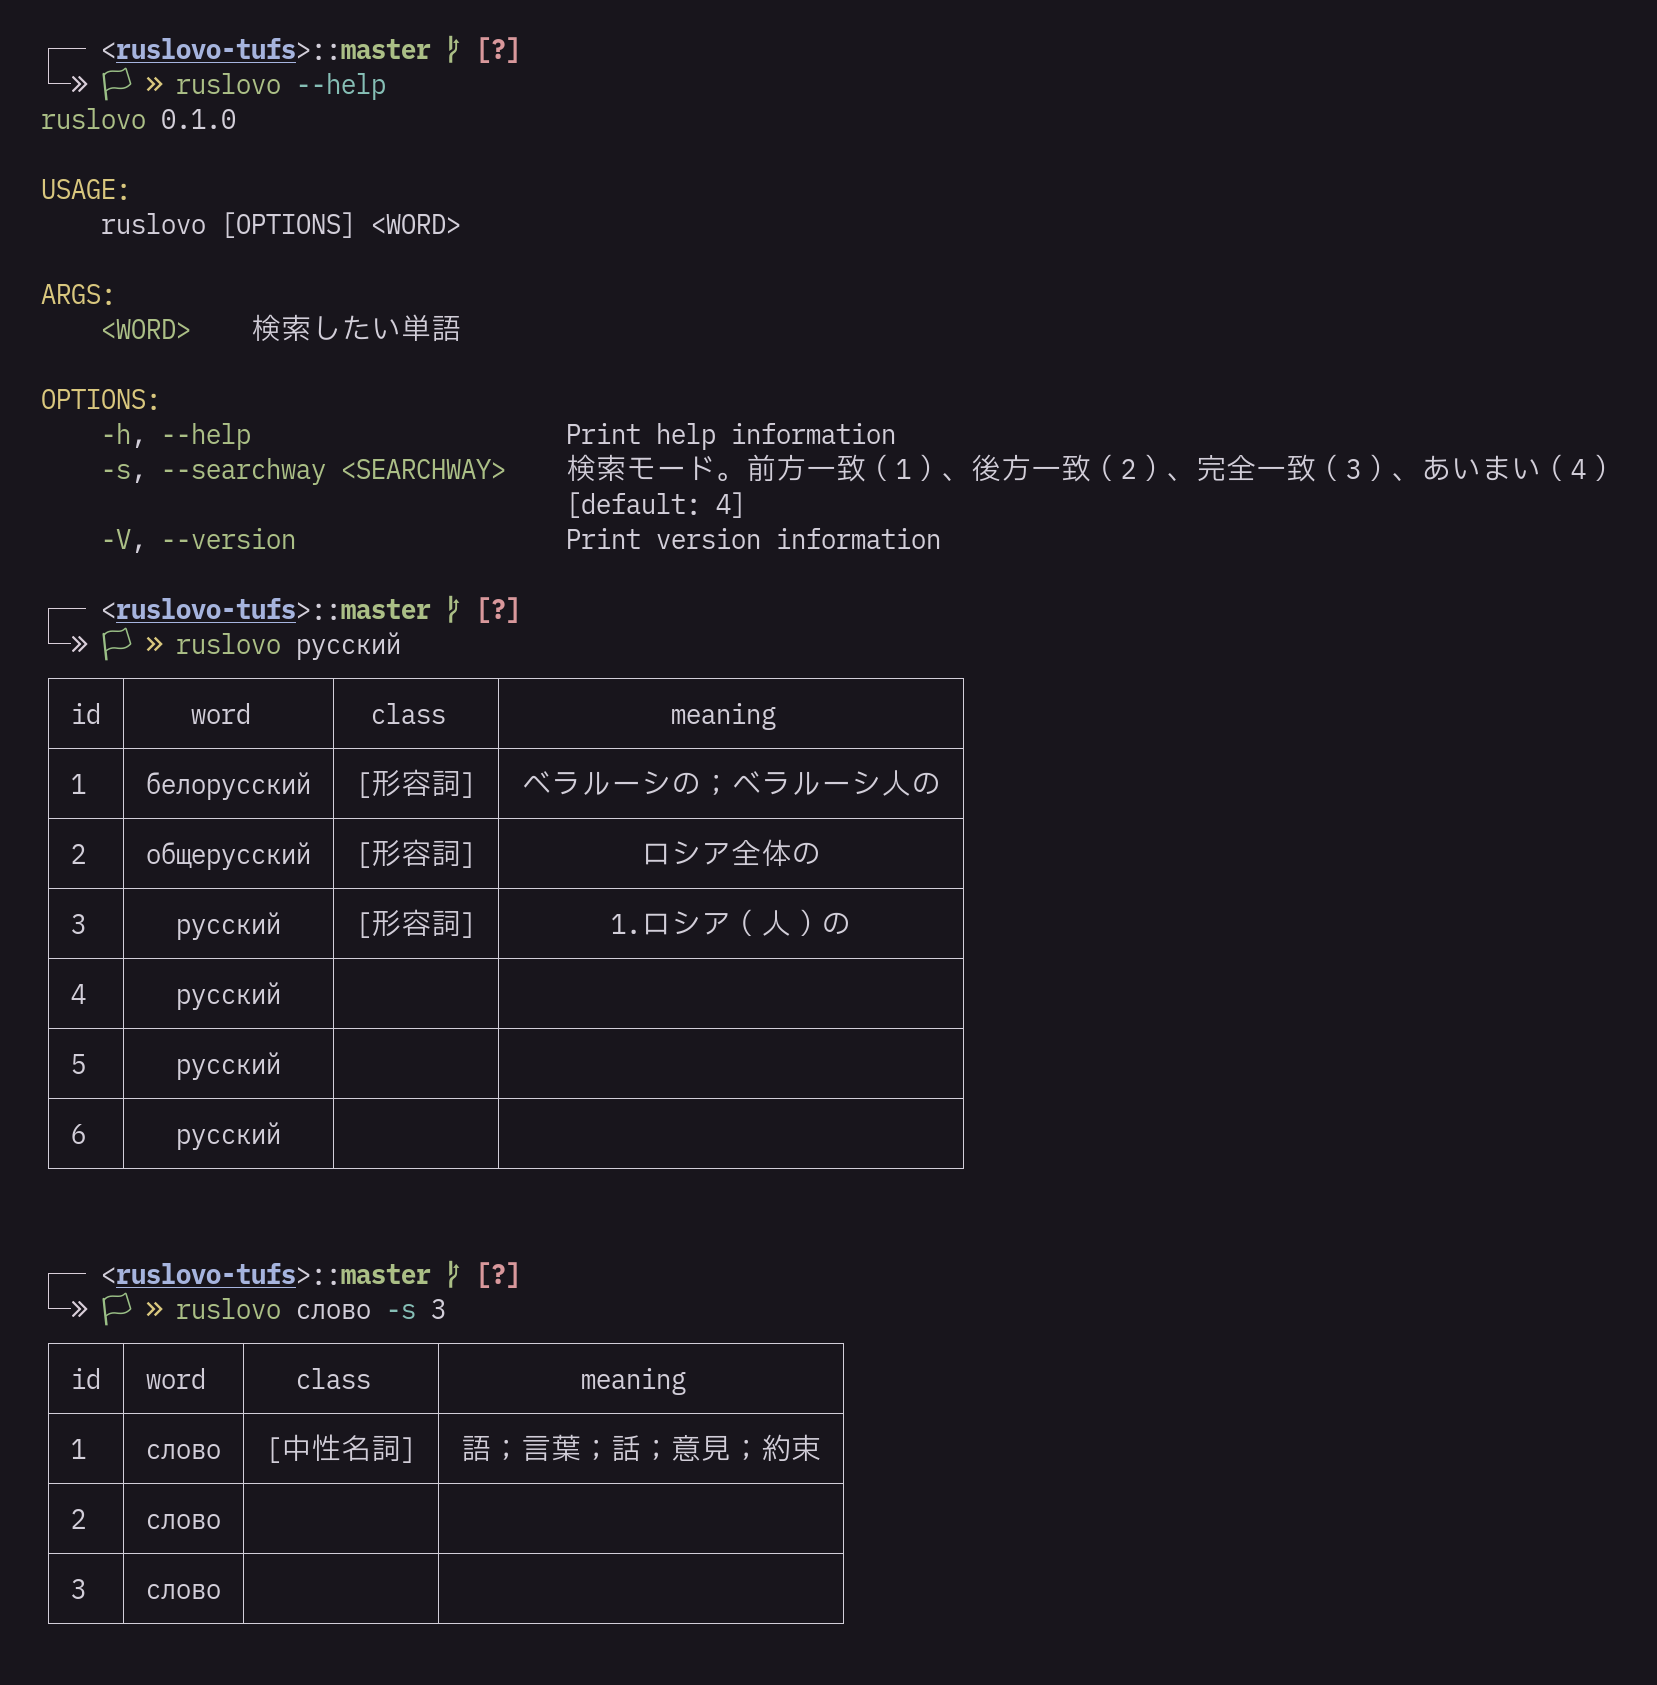
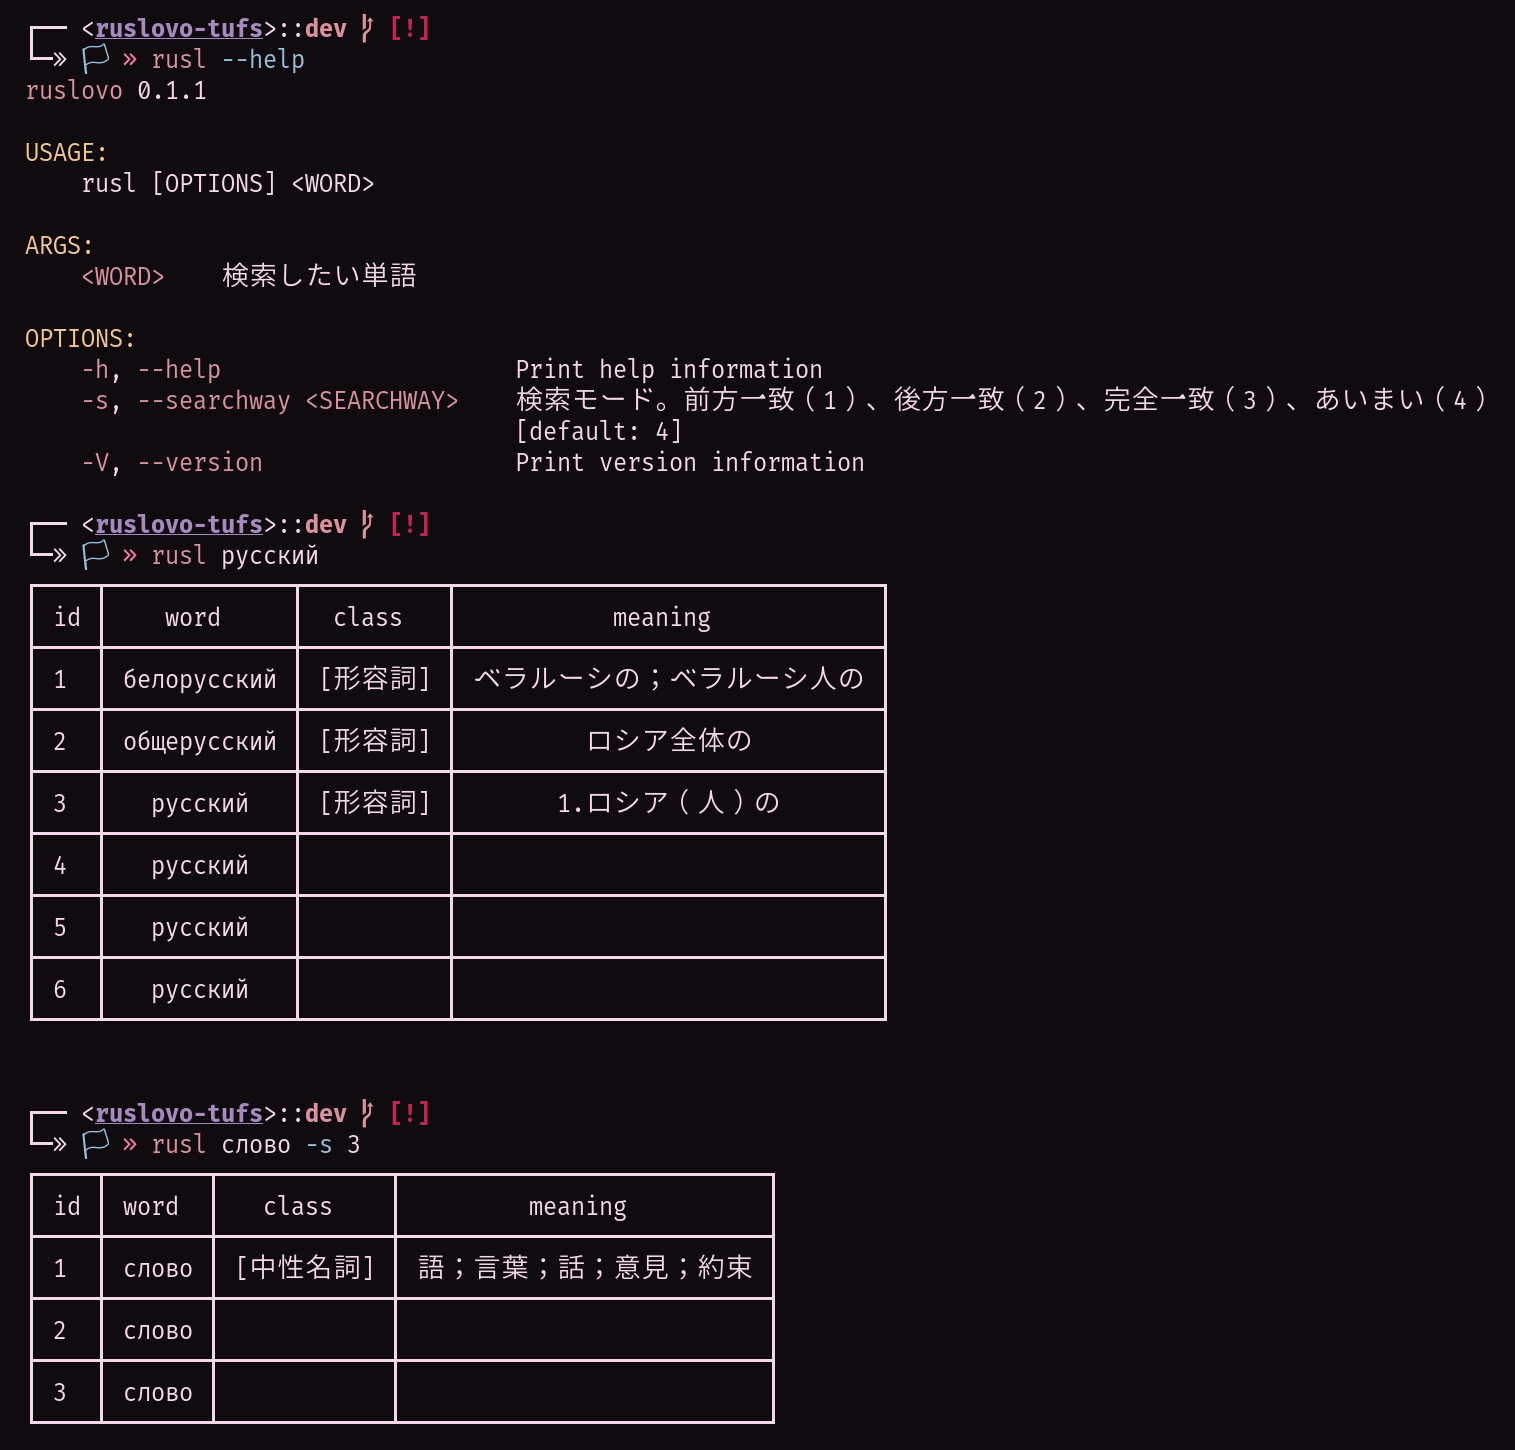
update deps & README

diff --git a/README.md b/README.md
@@ -2,22 +2,26 @@
 
 ## What's this?
 
-ruslovo-tufs is a command-line helper tool for searching [Russian Dictionary](http://cblle.tufs.ac.jp/dic/ru/) hosted by TUFS (Tokyo Univ. of Foreign Studies). This tool fetches HTMLs from the site and parses them into a simple format. So it accesses the server just like normal browsers, but there's no warranty. For details, see LICENSE.txt bundled.
+ruslovo-tufs (`rusl`) は、東京外国語大学が提供する[オンラインロシア語辞書](http://cblle.tufs.ac.jp/dic/ru/)を検索するための非公式 CLI ツールです。検索結果の HTML を取得し、取り出したデータを表形式にして表示します。
 
-Its name originated from russkiy (русский, "Russian") + slovo (слово, "word") + Rust language.
+名前の由来はロシア語 (русский) と言葉 (слово)、そして実装言語 (Rust) です。
+
+ruslovo-tufs (`rusl`) is an inofficial CLI tool to search [Russian Dictionary](http://cblle.tufs.ac.jp/dic/ru/) hosted by TUFS (Tokyo Univ. of Foreign Studies). This tool fetches HTMLs from the site and parses them into a table format.
+
+Its name originated from russkiy (русский, "Russian") + slovo (слово, "word") / Rust language.
 
 ## Usage
 
 ```
-# show help
-ruslovo --help
+# ヘルプを表示
+rusl --help
 
-# search a word:
-ruslovo русский
+# 単語を検索
+rusl русский
 
-# specify searching method:
-# prefix match (1), suffix match (2), exact match (3), fuzzy (4). Default value is 4.
-ruslovo слово -s 3
+# 検索方法を指定
+# 前方一致 (1), 後方一致 (2), 完全一致 (3), あいまい (4)。デフォルトの値は4です。
+rusl слово -s 3
 ```
 
 ## Sample output
